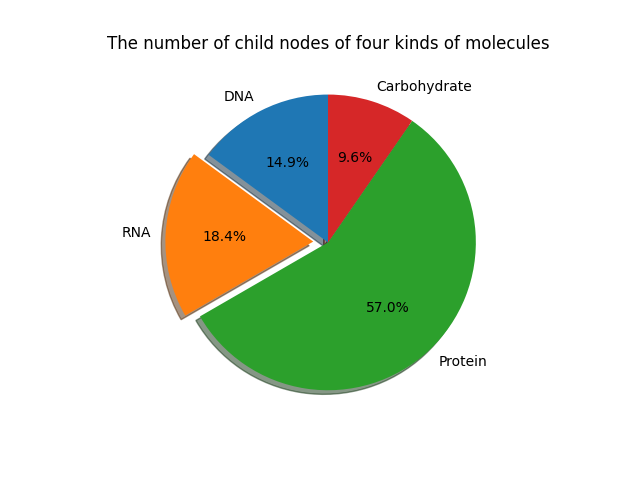
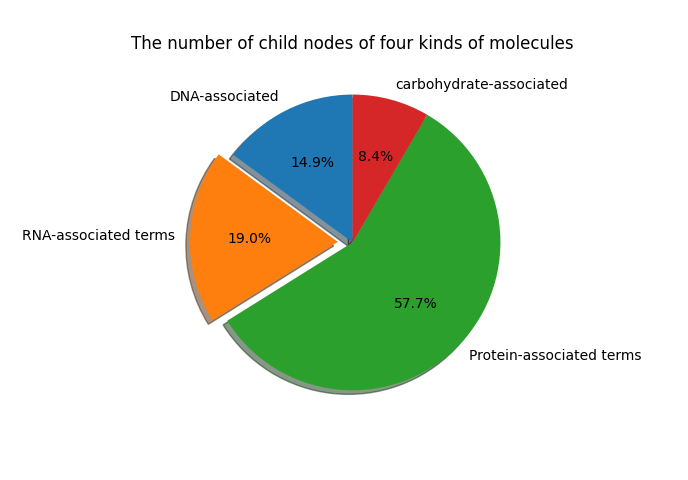
new

diff --git a/Practical14/XML_DOM.py b/Practical14/XML_DOM.py
@@ -26,16 +26,19 @@ def parse_xml(path):
 	terms = collection.getElementsByTagName("term")
 	return terms
 
-def count(now):
-	# count the childnodes
+def count(now,fe):
 	now.flag = True
 	for ch in now.ch_list:
+		# subtract the middle nodes
+		if(ch.feature.find(fe) != -1):
+			sub[ch.id] = 1
+		# find all the related nodes
 		if(ch.flag == False):
-			count(ch)
-	return
+			count(ch,fe)
 
 def calculate(fe):
-	# initialize and counted the direct related nodes
+	# initialize and counted the nodes with feature
+	sub.clear()
 	related_node = 0
 	for now in node_dict.values():
 		now.flag = False
@@ -45,7 +48,7 @@ def calculate(fe):
 	# mark all the related nodes and their childnodes
 	for now in node_dict.values():
 		if(now.feature.find(fe) != -1 and now.flag == False):
-			count(now)
+			count(now,fe)
 
 	# count all the related nodes and their childnodes
 	all_node = 0
@@ -53,7 +56,7 @@ def calculate(fe):
 		if(now.flag == True):
 			all_node += 1
 
-	return all_node-related_node
+	return all_node - related_node + len(sub)
 
 def build_graph(terms):
 	# build all nodes
@@ -81,13 +84,20 @@ node_dict = {}
 build_graph(terms)
 
 # calculate the answer
+sub = {}
 DNA = calculate("DNA")
 RNA = calculate("RNA")
 PRO = calculate("protein")
 OTHER = calculate("carbohydrate")
 
+print("Number of child nodes of DNA-associated terms: %d" % DNA)
+print("Number of child nodes of RNA-associated terms: %d" % RNA)
+print("Number of child nodes of protein-associated terms: %d" % PRO)
+print("Number of child nodes of carbohydrate-associated terms: %d" % OTHER)
+
 # plot the pie chart
-labels = ['DNA','RNA','Protein','Carbohydrate']
+labels = ['DNA-associated','RNA-associated terms', \
+		  'Protein-associated terms','carbohydrate-associated']
 values = [DNA,RNA,PRO,OTHER]
 explode = (0,0.1,0,0)
 plt.pie(values, explode = explode, labels = labels,	autopct = '%1.1f%%', shadow = True, startangle = 90)
